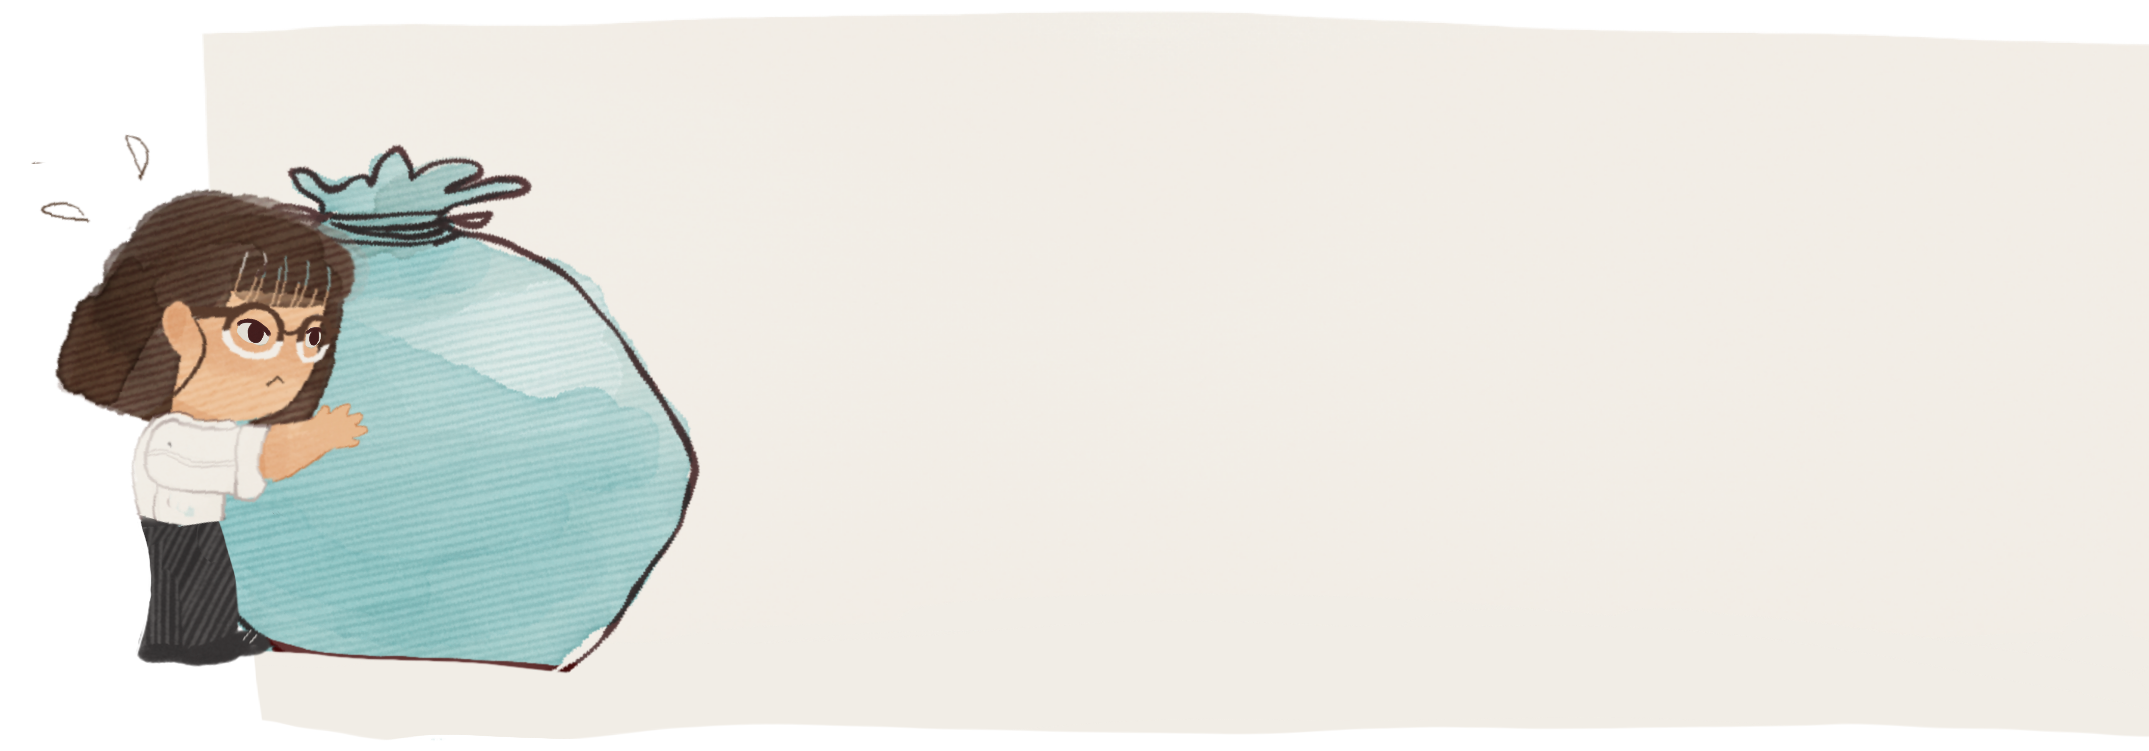
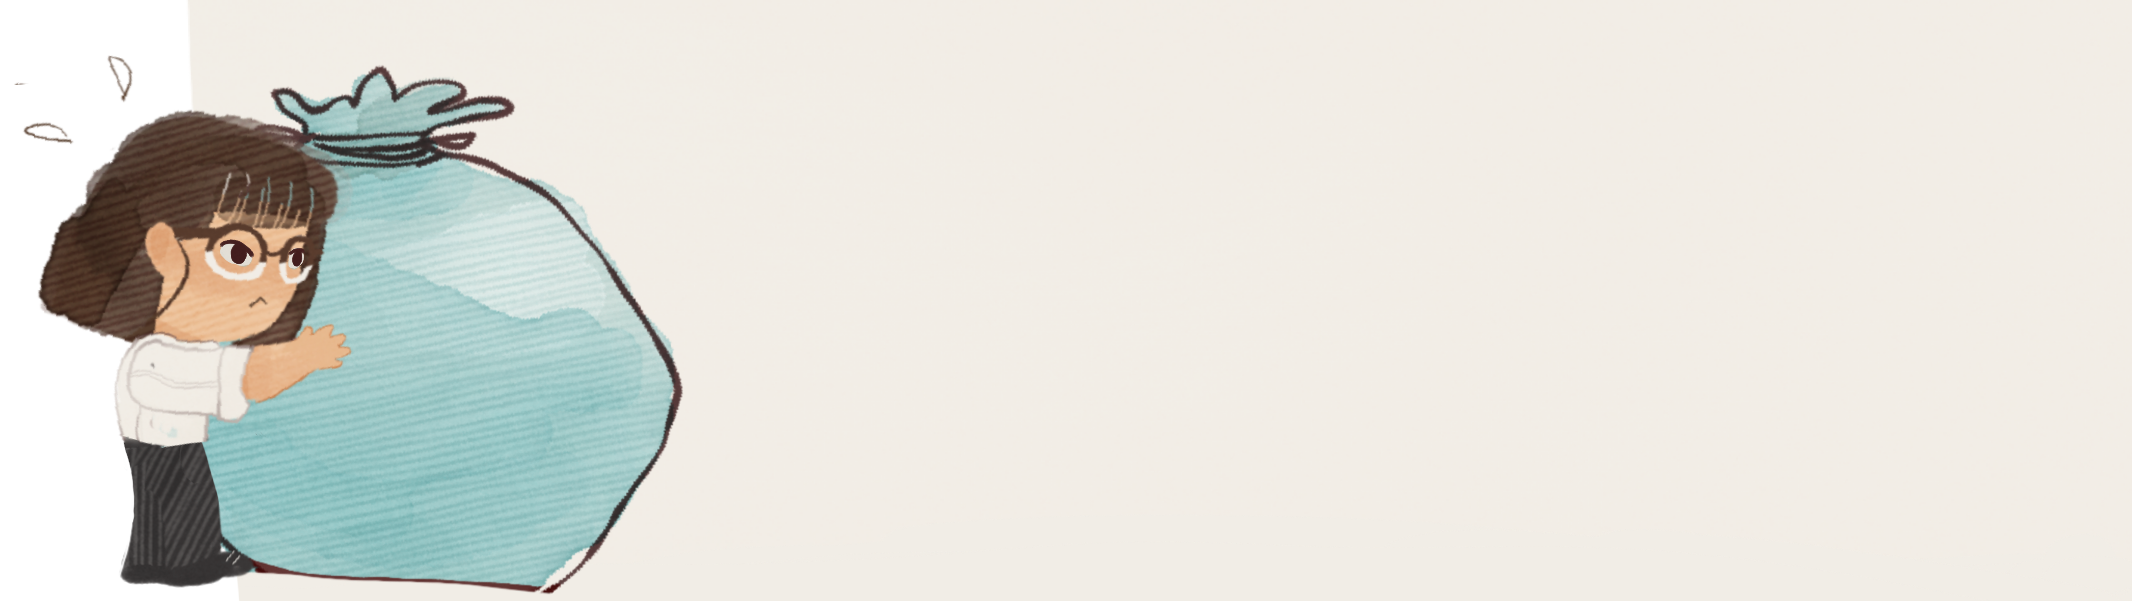
about done

Changed region(s): [[0.0, 0.1198, 1.0, 1.0], [0.0929, 0.0, 1.0, 0.0599], [0.031, 0.0899, 0.0619, 0.1498]]

diff --git a/style.css b/style.css
@@ -31,9 +31,10 @@ nav {
 .menu {
     display: none;
     cursor: pointer;
+    background-color: #f2eee7;
 }
 
-.menu div{
+.menu div{ /* menu icon */
     width: 25px;
     height: 3px;
     background-color: #544c4b;
@@ -53,9 +54,6 @@ nav {
     justify-content: space-around;
     width: 60vh;
 }
-.nav-link:hover, .amyshao:hover, .fa:hover {
-    opacity: 0.7;
-}
 
 .nav-link {
     z-index: 220;
@@ -63,8 +61,11 @@ nav {
     color: #544c4b;
 }
 
+.nav-link:hover, .amyshao:hover, .fa:hover {
+    opacity: 0.7;
+}
 
-/* Style all font awesome icons */
+/* icons */
 .fa {
     flex: 1;
     padding: 5px;
@@ -83,12 +84,12 @@ nav {
     .nav-links {
         position: absolute;
         right: 0px;
-        height: 92vh;
+        height: 60vh;
+        width: 30%;
         top: 8vh;
         display: flex;
         flex-direction: column;
         align-items: center;
-        width: 50%;
         background-color: cadetblue;
         transform: translateX(100%);
     }
@@ -120,6 +121,9 @@ nav {
 }
 
 
+/*============== home page ==================*/
+
+
 main {
     background-color: #f2eee7;
     height: 90vh;
@@ -128,9 +132,8 @@ main {
 
 /* the girl walking animation on home page */
 .animation {
-    background-color: f2eee7;
-    align-items: center;
     height: 52vh;
+    width: 100%;
 }
 
 
@@ -139,18 +142,21 @@ main {
     0% {opacity: 1;}
     50% {left: 47%;}
     75% {left: 47%; }
-    100% {left: 57%; right: 43%; top: 34%; position: fixed;}
+    100% {left: 57%; right: 43%; top: 30%; position: fixed;}
 
 }
 
 .girl {
+    background-color: none palegoldenrod;
     max-height: 35%; 
+    min-height: 25%;
     max-width: 50%;
+    min-width: 50%;
     height: auto;
     width: auto;
     z-index: 101;
     position: fixed;
-    top: 34%; left: 20%; right: 80%;
+    top: 30%; left: 27%; right: 80%;
     animation-name: girl-animation;
     animation-duration: 5s;
     animation-fill-mode: forwards;
@@ -159,15 +165,13 @@ main {
 }
 
 .hello {
-    max-height: 60%; 
+    max-height: 20%; 
     max-width: 50%;
     width: auto;
     height: auto;
     z-index: 50;
     position: fixed;
-    left: 20%;
-    right: 80%;
-    top: 25%;
+    top: 35%; left: 27%; right: 80%;
 }
 
 @keyframes home-text {
@@ -188,17 +192,33 @@ main {
 }
 
 
+/*============ about page =============*/
+
+
 @keyframes fade {
     0% {opacity: 0; top: 0px}
     100% {opacity: 1; top: 100px}
 }
 
+
 .aboutme-main {
     display: flex;
 }
 
+.me-container {
+    display: block;
+    flex: 1;
+    padding-top: 8vh;
+    justify-content: space-around;
+}
+
 .me {
-    height: 70vh;
+    display: block;
+    max-width: 100%;
+    max-height: 80%;
+    padding-left: 10vh;
+    height: auto;
+    width: auto;
     animation-name: fade;
     animation-duration: 2s;
     animation-fill-mode: forwards;
@@ -206,29 +226,29 @@ main {
 }
 
 .about-text {
-    margin-top: 10vh;
-    margin-right: 20vh;
-    animation-name: fade;
+    flex: 1;
+    width: 80%;
+    padding-top: 12vh;
+    padding-right: 10vh;;
     animation-duration: 3s;
     animation-fill-mode: forwards;
     animation-iteration-count: 1;
 }
 
-@keyframes hi-there {
-    0% {left: 100px}
-    100% {left: 0px}
+
+@keyframes fade-in {
+    0% {opacity: 0; transform: translateX(50px);}
+    100% {opacty: 1; transform: translateX(0px);}
 }
 
-.h1, .h2, .p1 {
+.h1, .h2, .p1, .about-buttons {
     margin-top: 20px;
+    animation: fade-in 1s ease forwards 0s;
 }
 
 .h1 {
     font-size: 40px;
-    animation-name: hi-there;
-    animation-duration: 2s;
-    animation-fill-mode: forwards;
-    animation-iteration-count: 1;
+    
 }
 
 .about-buttons {
@@ -265,4 +285,34 @@ a.button:hover {
     font-size: 20px;
     color: teal;
     cursor: pointer;
+}
+
+@media screen and (max-width: 900px) {
+    .aboutme-main {
+        flex-direction: column;
+    }
+    .me-container {
+        padding-top: 5vh;
+        height: 40vh;
+        display: flex;
+    }
+    .me {
+        max-height: 100%;
+        padding-left: 0vh;
+    }
+    .about-text {
+        padding-top: 0px;
+        padding-right: 5vh;
+        padding-left: 5vh;
+        padding-bottom: 5vh;
+        text-align: center;
+        width: 100%;
+    }
+    .about-buttons {
+        width: 100%;
+        justify-content: center;
+    }
+    body {
+        background-color: #f2eee7;
+    }
 }

diff --git a/about.html b/about.html
@@ -23,8 +23,8 @@
                 <li><a class="nav-link" href="code.html">code</a></li>
                 <li><a class="nav-link" href="composition.html">composition</a></li>
                 <li><a class="nav-link" href="Amy_Shao_Resume_2020.pdf">resume</a></li>
-                <li><a href="#" class="fa fa-linkedin"></a></li>
-                <li><a href="#" class="fa fa-github"></a></li>
+                <li><a href="https://linkedin.com/amy-shao-" class="fa fa-linkedin"></a></li>
+                <li><a href="https://github.com/amyshao" class="fa fa-github"></a></li>
             </ul>
             <div class="menu">
                 <div class="line1"></div>
@@ -32,16 +32,30 @@
                 <div class="line3"></div>
             </div>
         </nav>
-        
+
         <main class="aboutme-main">
-            <div>
+            <div class="me-container">
                 <img src="./images/me.PNG" class="me" alt="a picture of myself">
             </div>
             <div class = "about-text">
                 <h1 class="h1">Hi there, </h1>
                 <h2 class="h2">As you know, I'm Amy and I'm currently a third year Computer 
                     Science student at the University of Waterloo. </h2>
-                <p class="p1">Insert paragraph here</p>
+                <p class="p1">Compressing objects: 100% (5/5), done.
+                                Writing objects: 100% (5/5), 1.46 KiB | 1.46 MiB/s, done.
+                                Total 5 (delta 3), reused 0 (delta 0)
+                                remote: Resolving deltas: 100% (3/3), completed with 3 local objects.
+                                To https://github.com/amyshao/amyshao.github.io
+                                03e4d58..01058ef  master -> master
+                                amy@MacBook-Pro-183 amyshao.github.io % git add *
+                                amy@MacBook-Pro-183 amyshao.github.io % git commit -m "nav done"
+                                [master 54f1a34] nav done
+                                6 files changed, 121 insertions(+), 83 deletions(-)
+                                amy@MacBook-Pro-183 amyshao.github.io % git push
+                                Enumerating objects: 15, done.
+                                Counting objects: 100% (15/15), done.
+                                Delta compression using up to 12 threads
+                                </p>
                 
                 <div class="about-buttons">
                     <a class="button" href="https://linkedin.com/in/amy-shao-">linkedIn</a>

diff --git a/index.html b/index.html
@@ -22,8 +22,8 @@
                 <li><a class="nav-link" href="code.html">code</a></li>
                 <li><a class="nav-link" href="composition.html">composition</a></li>
                 <li><a class="nav-link" href="Amy_Shao_Resume_2020.pdf">resume</a></li>
-                <li><a href="#" class="fa fa-linkedin"></a></li>
-                <li><a href="#" class="fa fa-github"></a></li>
+                <li><a href="https://linkedin.com/amy-shao-" class="fa fa-linkedin"></a></li>
+                <li><a href="https://github.com/amyshao" class="fa fa-github"></a></li>
             </ul>
             <div class="menu">
                 <div class="line1"></div>
@@ -34,9 +34,11 @@
             
         <main>
             <div class="animation">
-                <img class="girl"src="./images/openeyes.PNG">
+                <div class="girl-hello">
+                    <img class="girl"src="./images/openeyes.PNG"/>
                     <img class="hello" src="./images/hello.PNG"/>
-                </img>
+                </div>
+                
             </div>
             <div class="home-text">
                 <p>

diff --git a/code.html b/code.html
@@ -23,8 +23,8 @@
                 <li><a class="nav-link" href="code.html">code</a></li>
                 <li><a class="nav-link" href="composition.html">composition</a></li>
                 <li><a class="nav-link" href="Amy_Shao_Resume_2020.pdf">resume</a></li>
-                <li><a href="#" class="fa fa-linkedin"></a></li>
-                <li><a href="#" class="fa fa-github"></a></li>
+                <li><a href="https://linkedin.com/amy-shao-" class="fa fa-linkedin"></a></li>
+                <li><a href="https://github.com/amyshao" class="fa fa-github"></a></li>
             </ul>
             <div class="menu">
                 <div class="line1"></div>

diff --git a/composition.html b/composition.html
@@ -23,8 +23,8 @@
                 <li><a class="nav-link" href="code.html">code</a></li>
                 <li><a class="nav-link" href="composition.html">composition</a></li>
                 <li><a class="nav-link" href="Amy_Shao_Resume_2020.pdf">resume</a></li>
-                <li><a href="#" class="fa fa-linkedin"></a></li>
-                <li><a href="#" class="fa fa-github"></a></li>
+                <li><a href="https://linkedin.com/amy-shao-" class="fa fa-linkedin"></a></li>
+                <li><a href="https://github.com/amyshao" class="fa fa-github"></a></li>
             </ul>
             <div class="menu">
                 <div class="line1"></div>
